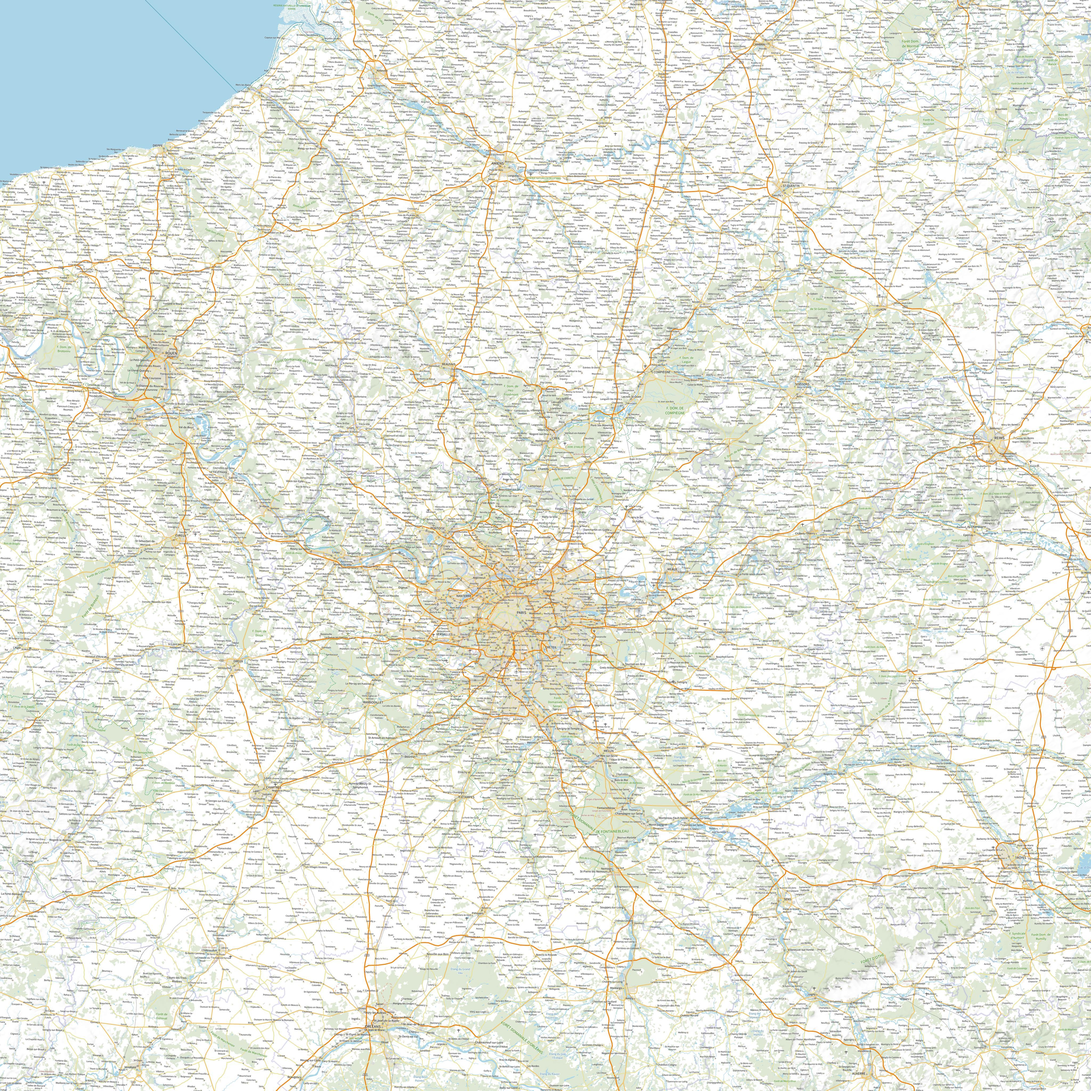
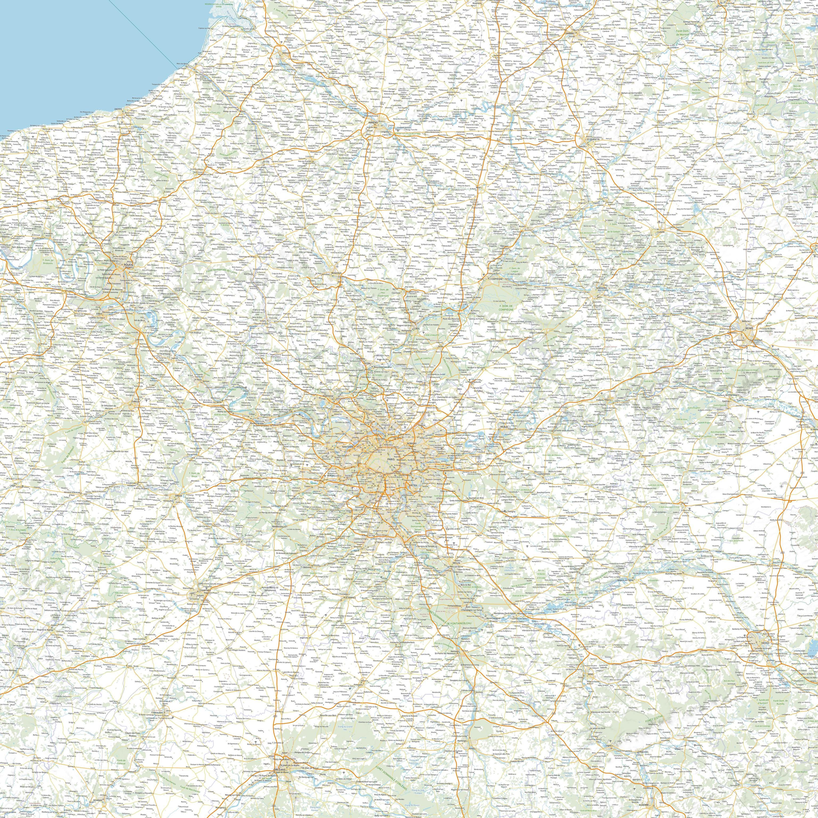
perf(carte) : fonds de carte conservés entre les redessins (plus de nouveau décodage), images allégées, recherche sans redessin d'attente et résultats gardés

diff --git a/apps/client/src/ui/franceMap.ts b/apps/client/src/ui/franceMap.ts
@@ -238,10 +238,29 @@ export class FranceMap {
     return `<form class="fm-search" autocomplete="off"><input class="fm-q" type="search" value="${esc(this.query)}" placeholder="${L ? 'Chercher une ville…' : 'Find a city…'}" aria-label="${L ? 'Chercher une ville' : 'Find a city'}" /><button type="submit" aria-label="${L ? 'Chercher' : 'Search'}">⌕</button></form>${card ? `<div class="fm-found">${card}</div>` : ''}`;
   }
 
+  private readonly geoCache = new Map<string, { label: string; x: number; y: number }>();
+
+  /** Situe un lieu (Lambert-93) par rapport aux zones : dedans, la plus proche, ou aucune. */
+  private placeFound(label: string, x: number, y: number, zones: MapZone[]): NonNullable<FranceMap['found']> {
+    const real = zones.filter((z) => !z.image);
+    const inside = real.find((z) => z.rect && x >= z.rect.minE && x <= z.rect.maxE && y >= z.rect.minN && y <= z.rect.maxN);
+    const dist = (z: MapZone) => Math.hypot(z.x - x, z.y - y) / 1000;
+    const near = [...real].sort((a, b) => dist(a) - dist(b))[0] ?? null;
+    const zone = inside ?? near;
+    return { label, x, y, zone, km: zone ? dist(zone) : 0, state: inside ? 'in' : near ? 'near' : 'far' };
+  }
+
   /** Cherche une ville (géocodeur de l'IGN), la situe sur la carte et dit si une zone du jeu la couvre. */
   private async locate(q: string, zones: MapZone[]): Promise<boolean> {
     this.lookup = 'busy';
     this.found = null;
+    // Même recherche déjà faite : réponse gardée, sans réseau.
+    const cached = this.geoCache.get(q.toLowerCase());
+    if (cached) {
+      this.found = this.placeFound(cached.label, cached.x, cached.y, zones);
+      this.lookup = 'idle';
+      return true;
+    }
     try {
       const r = await fetch(`https://data.geopf.fr/geocodage/search?q=${encodeURIComponent(q)}&type=municipality&limit=1`);
       const j = (await r.json()) as { features?: Array<{ geometry: { coordinates: [number, number] }; properties: { city?: string; label?: string; postcode?: string } }> };
@@ -252,13 +271,9 @@ export class FranceMap {
       }
       const [lon, lat] = ft.geometry.coordinates;
       const p = wgs84ToL93(lon, lat);
-      const real = zones.filter((z) => !z.image);
-      const inside = real.find((z) => z.rect && p.x >= z.rect.minE && p.x <= z.rect.maxE && p.y >= z.rect.minN && p.y <= z.rect.maxN);
-      const dist = (z: MapZone) => Math.hypot(z.x - p.x, z.y - p.y) / 1000;
-      const near = [...real].sort((a, b) => Number(b.available) - Number(a.available) || dist(a) - dist(b)).sort((a, b) => dist(a) - dist(b))[0] ?? null;
-      const zone = inside ?? near;
       const label = `${ft.properties.city ?? ft.properties.label ?? q}${ft.properties.postcode ? ` (${ft.properties.postcode.slice(0, 2)})` : ''}`;
-      this.found = { label, x: p.x, y: p.y, zone, km: zone ? dist(zone) : 0, state: inside ? 'in' : near ? 'near' : 'far' };
+      this.geoCache.set(q.toLowerCase(), { label, x: p.x, y: p.y });
+      this.found = this.placeFound(label, p.x, p.y, zones);
       this.lookup = 'idle';
       return true;
     } catch {
@@ -280,13 +295,13 @@ export class FranceMap {
   private baseLayers(v: View): string {
     // Fond de la France entière livré avec le jeu (public/basemap/france.jpg) : toujours là, tout de suite ; le Plan
     // IGN en ligne n'est demandé que pour le détail, une fois zoomé.
-    const local = `<image class="map-base" href="/basemap/france.jpg" x="${FULL.x}" y="${FULL.y}" width="${FULL.w}" height="${FULL.h}" preserveAspectRatio="none"/>`;
+    const local = `<image class="map-base" data-keep="france" href="/basemap/france.jpg" x="${FULL.x}" y="${FULL.y}" width="${FULL.w}" height="${FULL.h}" preserveAspectRatio="none"/>`;
     if (!this.zoomed) {
       this.lastBase = '';
       return local;
     }
     // Détail de l'Île-de-France livré aussi avec le jeu (hors ligne) ; le Plan IGN en ligne ne vient qu'en plus.
-    const idf = `<image class="map-base" href="/basemap/idf.jpg" x="520" y="-7020" width="280" height="280" preserveAspectRatio="none"/>`;
+    const idf = `<image class="map-base" data-keep="idf" href="/basemap/idf.jpg" x="520" y="-7020" width="280" height="280" preserveAspectRatio="none"/>`;
     const base = basemap(v);
     const prev = this.lastBase && this.lastBase !== base ? this.lastBase : '';
     this.lastBase = base;
@@ -304,6 +319,12 @@ export class FranceMap {
       tmp.innerHTML = this.html(zones);
       const fresh = tmp.firstElementChild;
       if (!fresh) return;
+      // Les deux grands fonds livrés avec le jeu sont déplacés tels quels dans le nouveau dessin : pas de nouveau
+      // chargement ni de nouveau décodage (c'était ce qui ralentissait chaque zoom et chaque recherche).
+      box.querySelectorAll<SVGImageElement>('image[data-keep]').forEach((old) => {
+        const next = fresh.querySelector(`image[data-keep="${old.dataset.keep}"]`);
+        if (next) next.replaceWith(old);
+      });
       box.replaceWith(fresh);
       this.bind(fresh.parentNode ?? scope, zones, onPick);
     };
@@ -352,7 +373,13 @@ export class FranceMap {
       this.query = q;
       if (q.length < 2) return;
       this.lookup = 'busy';
-      redraw();
+      let card = box.querySelector<HTMLElement>('.fm-found');
+      if (!card) {
+        card = document.createElement('div');
+        card.className = 'fm-found';
+        box.querySelector('.fm-main')?.append(card);
+      }
+      card.innerHTML = `<p>${fr() ? 'Recherche…' : 'Searching…'}</p>`;
       void this.locate(q, zones).then((ok) => {
         if (!ok) return redraw();
         const f = this.found;
